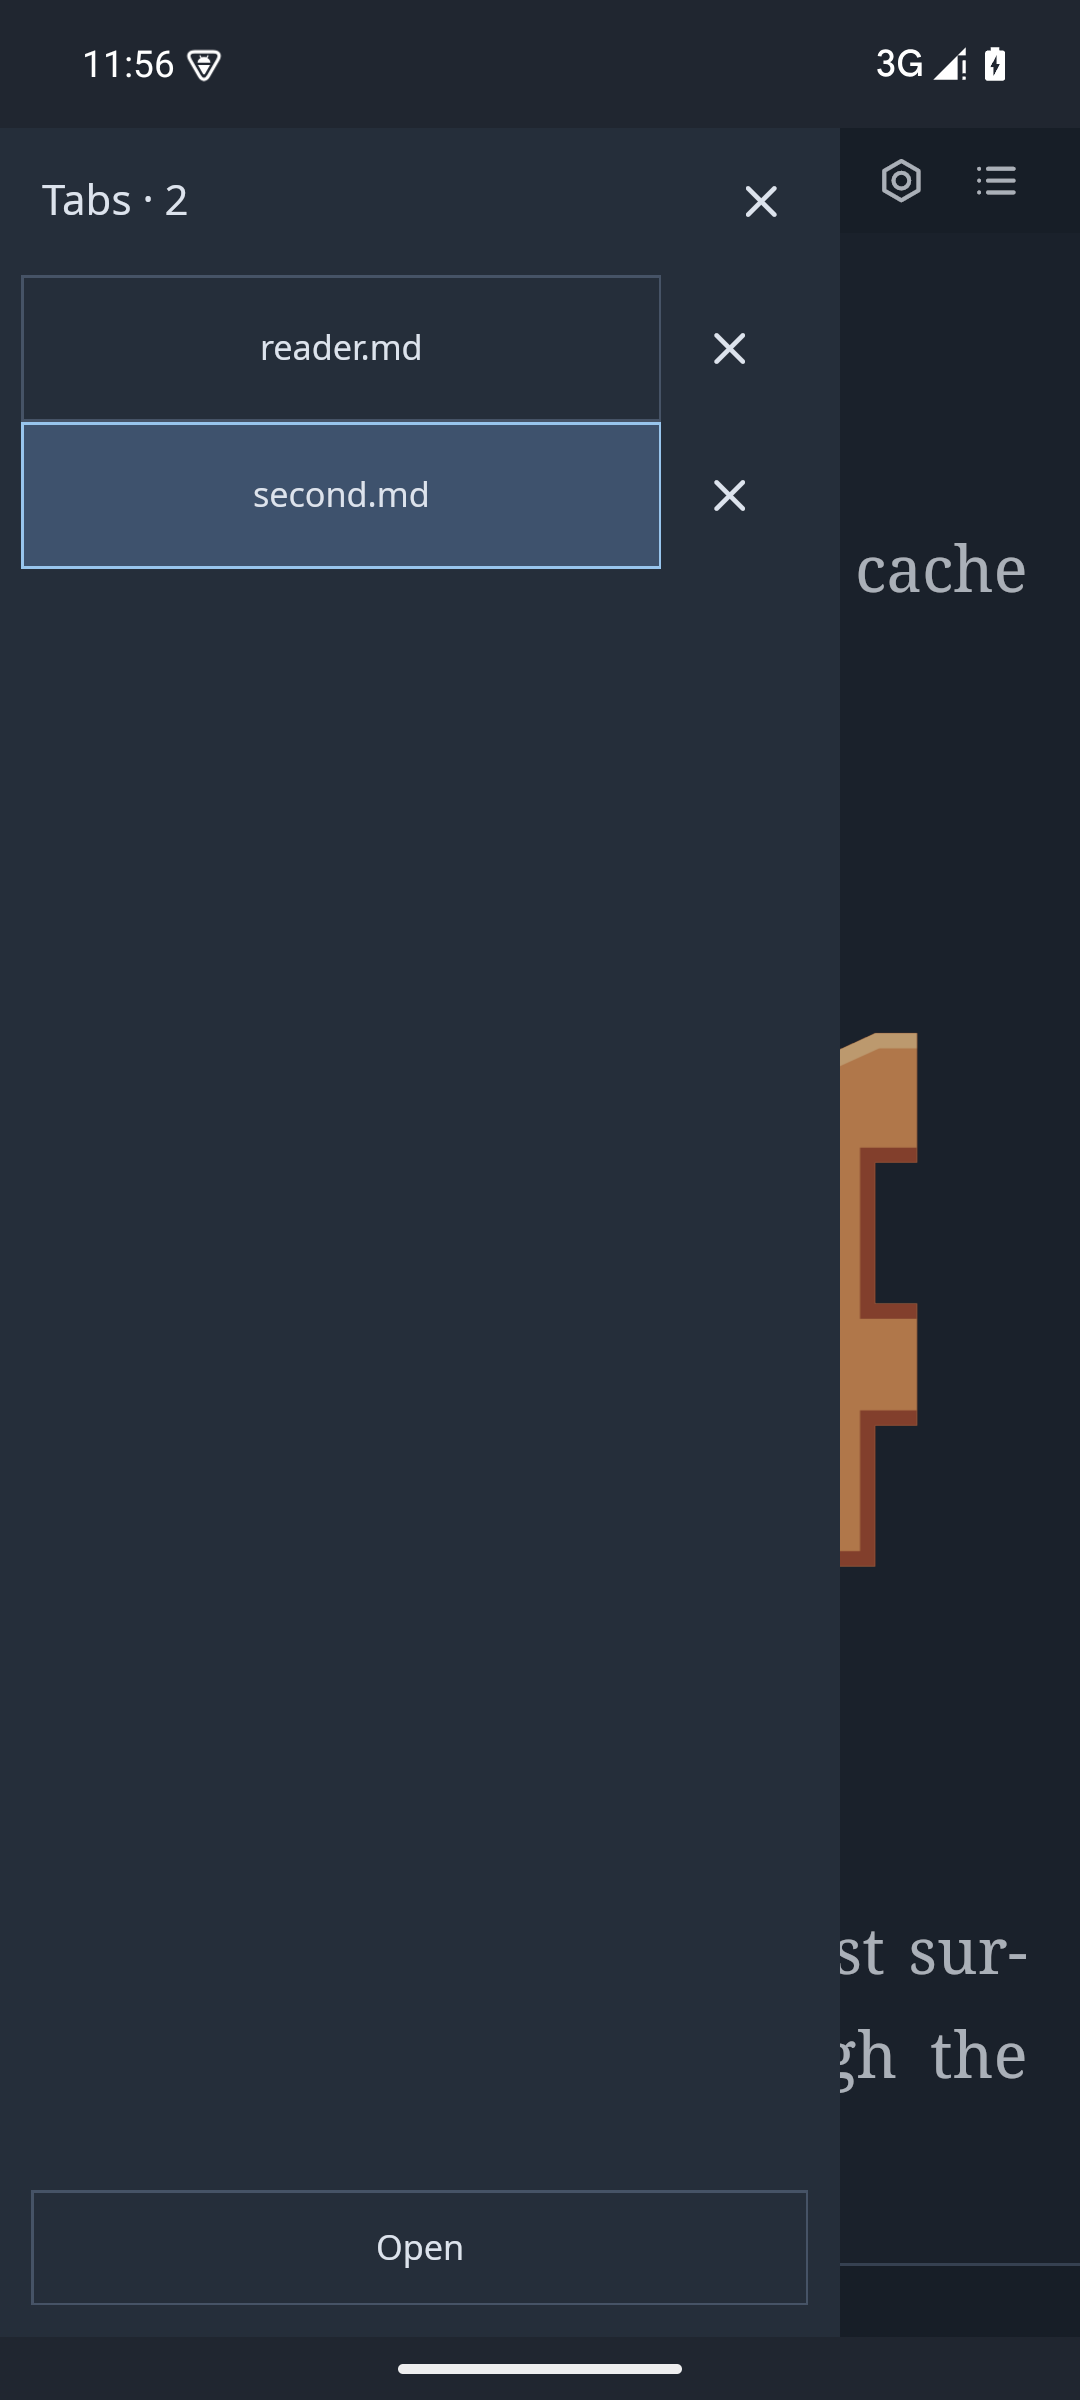
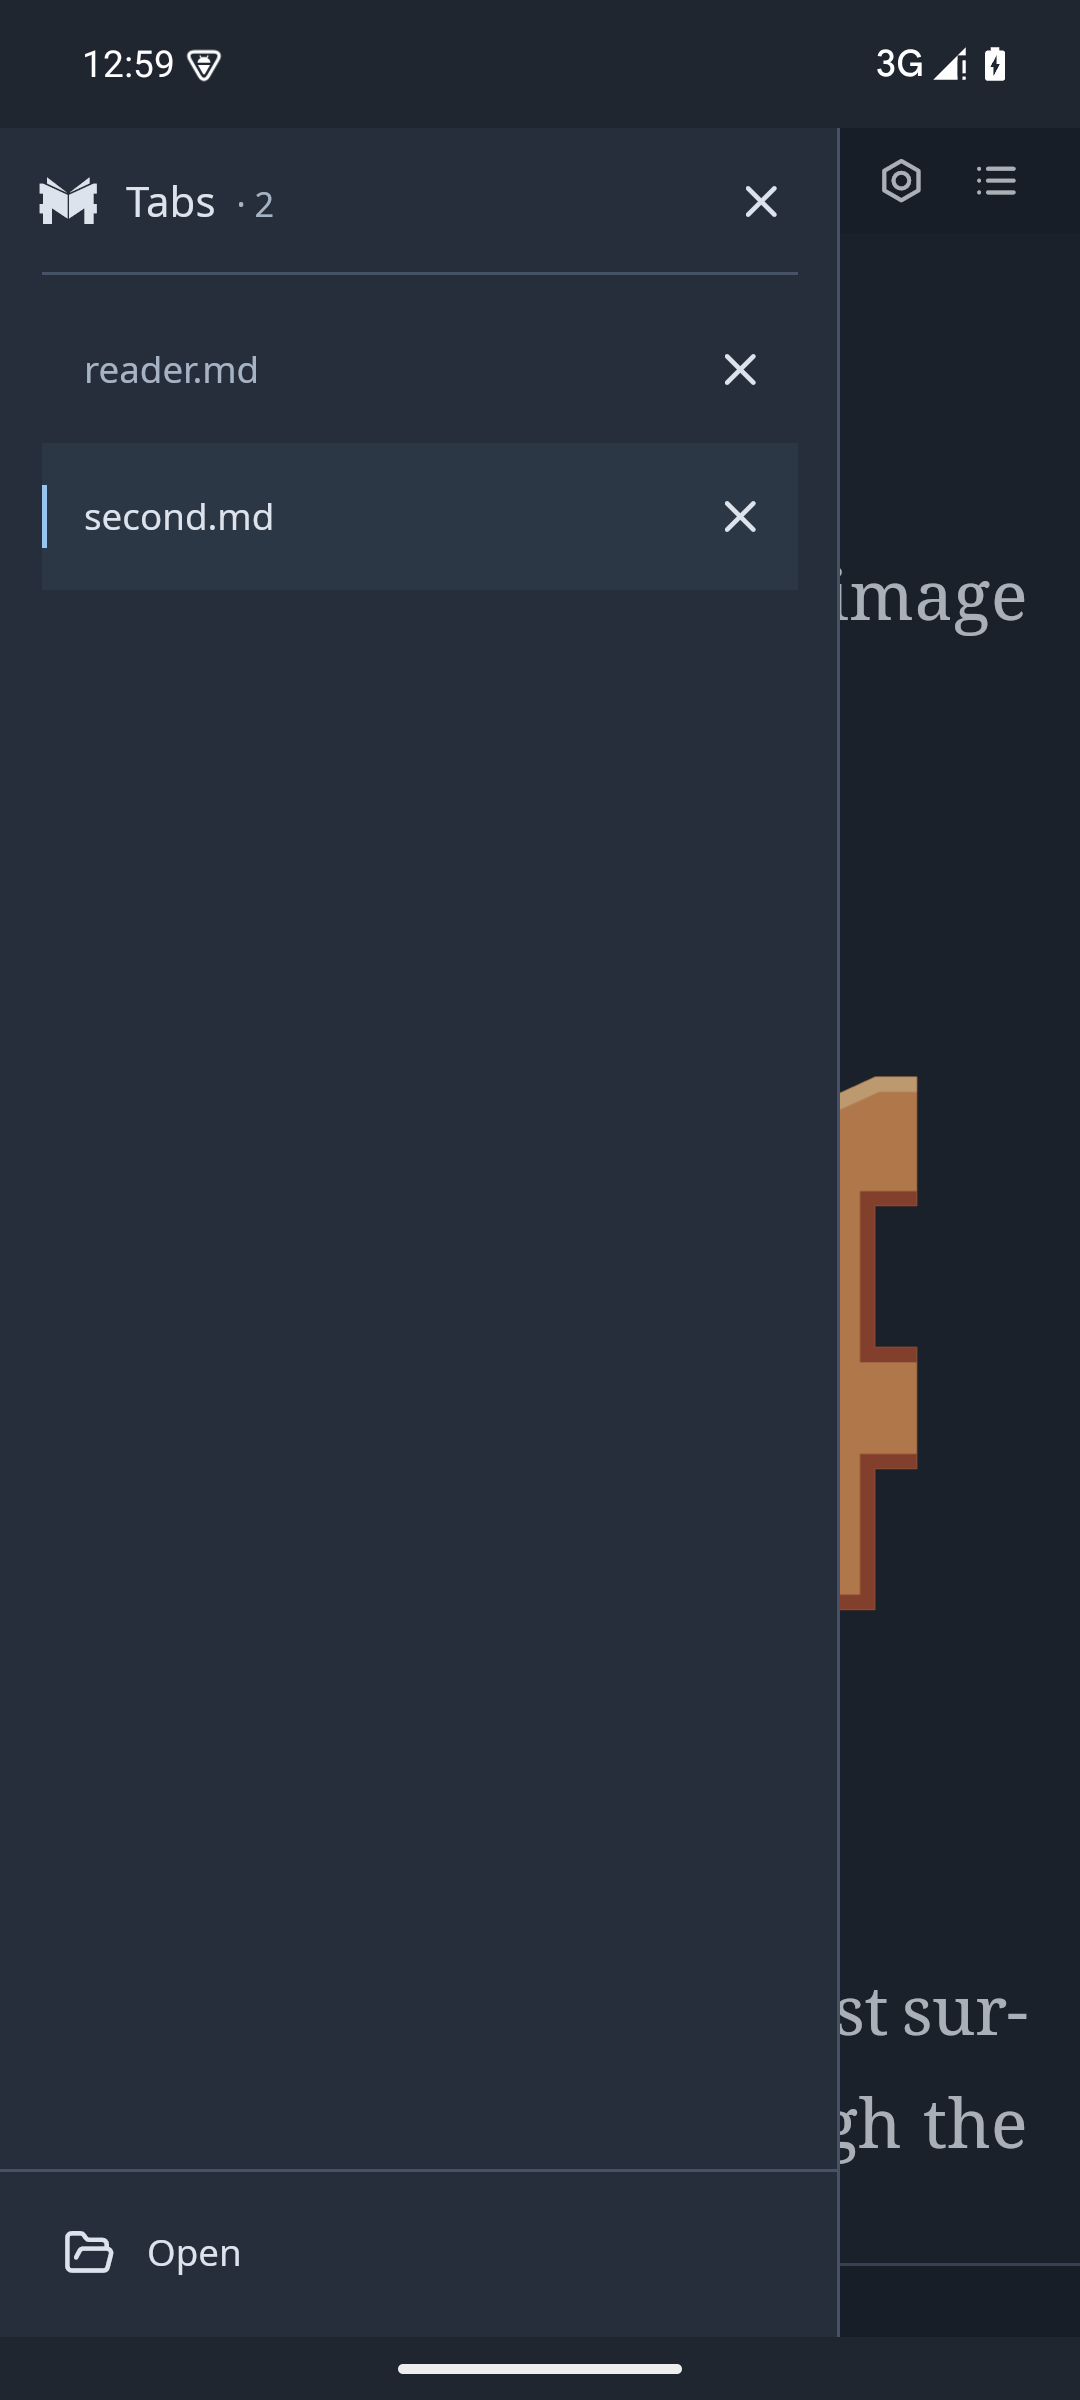
refactor: refine the phone tab drawer

diff --git a/src/app/chrome/tab_drawer.rs b/src/app/chrome/tab_drawer.rs
@@ -10,7 +10,7 @@ use crate::{
 	layout::{Draw, Paint, Rect, TextShaper},
 	state::{Command, InteractionState, ReaderTab},
 };
-use markview_core::style::{ColorField as C, Condition};
+use markview_core::style::{Color, ColorField as C, Condition};
 
 pub(in crate::app) fn rect(width: f32, height: f32) -> Rect {
 	Rect {
@@ -30,10 +30,10 @@ pub(in crate::app) fn list(
 	List::new(
 		panel,
 		Rect {
-			x: 8.,
-			y: 56.,
-			w: (panel.w - 28.).max(0.),
-			h: (height - 120.).max(0.),
+			x: 16.,
+			y: 64.,
+			w: (panel.w - 32.).max(0.),
+			h: (height - 128.).max(0.),
 		},
 		0.,
 		56.,
@@ -56,16 +56,13 @@ pub(super) fn toggle(lang: Lang) -> Button {
 	toggle.kind = ButtonKind::Quiet;
 	toggle
 }
-pub(super) fn buttons(
+fn row_buttons(
 	ui: &mut TextShaper,
 	tabs: &[ReaderTab],
 	active: usize,
-	scroll: f32,
-	size: (f32, f32),
+	list: List,
 	lang: Lang,
 ) -> Vec<Button> {
-	let (width, height) = size;
-	let list = list(width, height, tabs.len(), scroll);
 	let mut rows = Vec::new();
 	for index in list.visible() {
 		let row = list.row_rect(index);
@@ -74,7 +71,7 @@ pub(super) fn buttons(
 			.file_name()
 			.unwrap_or(path.as_os_str())
 			.to_string_lossy();
-		let name = ui.fit(&name, 13., (row.w - 68.).max(0.));
+		let name = ui.fit(&name, 14., (row.w - 72.).max(0.));
 		let mut select = button(
 			std::sync::Arc::<str>::from(name),
 			Command::SelectTab(index),
@@ -84,6 +81,7 @@ pub(super) fn buttons(
 			},
 		);
 		select.active = index == active;
+		select.kind = ButtonKind::Quiet;
 		rows.push(select);
 		let mut close = button(
 			lang.panel_close(),
@@ -99,12 +97,14 @@ pub(super) fn buttons(
 		close.kind = ButtonKind::Quiet;
 		rows.push(close);
 	}
-	let mut buttons = list.hit(rows);
+	rows
+}
+fn controls(panel: Rect, width: f32, lang: Lang) -> Vec<Button> {
 	let mut close = button(
 		lang.panel_close(),
 		Command::Tabs,
 		Rect {
-			x: list.panel.w - 52.,
+			x: panel.w - 52.,
 			y: 6.,
 			w: 44.,
 			h: 44.,
@@ -112,29 +112,77 @@ pub(super) fn buttons(
 	);
 	close.icon = Some(icons::CLOSE);
 	close.kind = ButtonKind::Quiet;
-	buttons.push(close);
-	buttons.push(button(
+	let mut open = button(
 		lang.toolbar_open(),
 		Command::Open,
 		Rect {
-			x: 12.,
-			y: height - 56.,
-			w: (list.panel.w - 24.).max(0.),
+			x: 16.,
+			y: panel.h - 54.,
+			w: (panel.w - 32.).max(0.),
 			h: 44.,
 		},
-	));
+	);
+	open.kind = ButtonKind::Quiet;
 	// The scrim dismisses the drawer without activating the document below.
-	buttons.push(button(
+	let scrim = button(
 		"",
 		Command::Tabs,
 		Rect {
-			x: list.panel.w,
+			x: panel.w,
 			y: 0.,
-			w: width - list.panel.w,
-			h: height,
+			w: width - panel.w,
+			h: panel.h,
 		},
-	));
+	);
+	vec![close, open, scrim]
+}
+pub(super) fn buttons(
+	ui: &mut TextShaper,
+	tabs: &[ReaderTab],
+	active: usize,
+	scroll: f32,
+	size: (f32, f32),
+	lang: Lang,
+) -> Vec<Button> {
+	components::appearance(ui);
+	let list = list(size.0, size.1, tabs.len(), scroll);
+	let mut buttons = list.hit(row_buttons(ui, tabs, active, list, lang));
+	buttons.extend(controls(list.panel, size.0, lang));
 	buttons
+}
+
+fn draw_entry(
+	ui: &mut TextShaper,
+	interaction: &InteractionState,
+	b: &Button,
+) -> Vec<Draw> {
+	let mut surface = b.clone();
+	surface.label = "".into();
+	surface.active = false;
+	let mut out = components::draw_button(ui, interaction, &surface, true);
+	let open = b.action == Command::Open;
+	if open {
+		out.push(Draw::Icon {
+			paths: icons::OPEN,
+			paint: Paint::Styled(Condition::Panel, C::Color),
+			x: b.rect.x + 8.,
+			y: b.rect.y + (b.rect.h - 20.) / 2.,
+			size: 20.,
+		});
+	}
+	let inset = if open { 40. } else { 16. };
+	let name = ui.fit(&b.label, 14., (b.rect.w - inset - 8.).max(0.));
+	out.extend(ui.label(
+		&name,
+		14.,
+		b.rect.x + inset,
+		b.rect.y + b.rect.h / 2. + 5.,
+		Paint::Styled(
+			Condition::Panel,
+			if b.active || open { C::Color } else { C::Muted },
+		),
+	));
+	out
 }
 pub(super) fn draw(
 	ui: &mut TextShaper,
@@ -159,36 +207,154 @@ pub(super) fn draw(
 			Paint::Scrim,
 		),
 		Draw::Rect(list.panel, Paint::Styled(Condition::Panel, C::Background)),
+		Draw::Icon {
+			paths: icons::APP,
+			paint: Paint::Styled(Condition::Panel, C::Color),
+			x: 12.,
+			y: 14.,
+			size: 28.,
+		},
 	];
+	for r in [
+		Rect {
+			x: list.panel.w - 1.,
+			w: 1.,
+			..list.panel
+		},
+		Rect {
+			x: 16.,
+			y: 55.,
+			w: list.panel.w - 32.,
+			h: 1.,
+		},
+		Rect {
+			y: height - 64.,
+			h: 1.,
+			..list.panel
+		},
+	] {
+		out.push(components::line(r, Condition::Panel, C::BorderColor));
+	}
+	let title = ui.fit(lang.toolbar_tabs(), 16., (list.panel.w - 132.).max(0.));
+	let title_width = ui.text_width(&title, 16.);
 	out.extend(ui.label(
-		&format!("{} · {}", lang.toolbar_tabs(), tabs.len()),
+		&title,
 		16.,
-		16.,
-		33.,
+		48.,
+		34.,
 		Paint::Styled(Condition::Panel, C::Color),
 	));
+	out.extend(ui.label(
+		&format!("· {}", tabs.len()),
+		13.,
+		48. + title_width + 8.,
+		34.,
+		Paint::Styled(Condition::Panel, C::Muted),
+	));
+	let background = ui.stylesheet.color(Condition::Panel, C::Background);
+	let accent = ui.stylesheet.color(Condition::Panel, C::Accent);
+	let selected =
+		Paint::Color(Color(u32::from_be_bytes(std::array::from_fn(|i| {
+			((background[i] + (accent[i] - background[i]) * 0.06) * 255.)
+				.round() as u8
+		}))));
 	let mut rows = Vec::new();
-	for b in buttons(ui, tabs, active, scroll, size, lang) {
-		if matches!(b.action, Command::SelectTab(_) | Command::CloseTab(_)) {
+	for b in row_buttons(ui, tabs, active, list, lang) {
+		if matches!(b.action, Command::SelectTab(_)) {
 			if b.active {
 				rows.push(Draw::Rect(
-					Rect { w: 3., ..b.rect },
+					Rect {
+						w: list.viewport.w,
+						..b.rect
+					},
+					selected,
+				));
+			}
+			rows.extend(draw_entry(ui, interaction, &b));
+			if b.active {
+				rows.push(Draw::Rect(
+					Rect {
+						y: b.rect.y + 16.,
+						w: 2.,
+						h: 24.,
+						..b.rect
+					},
 					Paint::Styled(Condition::Panel, C::Accent),
 				));
 			}
+		} else {
 			rows.extend(components::draw_button(ui, interaction, &b, true));
-		} else if b.rect.x < list.panel.w {
-			out.extend(components::draw_button(ui, interaction, &b, true));
 		}
 	}
 	out.push(list.clip(rows));
 	list.draw_bar(&mut out, ui, interaction);
+	for b in controls(list.panel, width, lang) {
+		if b.action == Command::Open {
+			out.extend(draw_entry(ui, interaction, &b));
+		} else if b.rect.x < list.panel.w {
+			out.extend(components::draw_button(ui, interaction, &b, true));
+		}
+	}
 	out
 }
 
 #[cfg(test)]
 mod tests {
 	use super::*;
+	#[test]
+	fn drawer_labels_follow_partial_scroll_without_recentering() {
+		let mut ui = crate::test_support::shaper();
+		let tabs: Vec<_> = (0..30)
+			.map(|i| ReaderTab::new(format!("{i}-document.md").into()))
+			.collect();
+		let first_label = |draws: Vec<Draw>| {
+			draws
+				.into_iter()
+				.find_map(|draw| {
+					let Draw::Clipped { draws, .. } = draw else {
+						return None;
+					};
+					draws.into_iter().find_map(|draw| match draw {
+						Draw::Glyph(glyph) => Some((glyph.x, glyph.y)),
+						_ => None,
+					})
+				})
+				.unwrap()
+		};
+		for dark in [false, true] {
+			ui.set_stylesheet(markview_core::style::Stylesheet::bundled(dark));
+			let resting = first_label(draw(
+				&mut ui,
+				&tabs,
+				0,
+				0.,
+				&InteractionState::default(),
+				(320., 760.),
+				Lang::En,
+			));
+			let scrolled = first_label(draw(
+				&mut ui,
+				&tabs,
+				0,
+				17.,
+				&InteractionState::default(),
+				(320., 760.),
+				Lang::En,
+			));
+			assert_eq!(resting.0, 32.);
+			assert_eq!(scrolled.0, resting.0);
+			assert_eq!(resting.1 - scrolled.1, 17.);
+			let buttons =
+				buttons(&mut ui, &tabs, 0, 17., (320., 760.), Lang::En);
+			let select = buttons
+				.iter()
+				.find(|b| b.action == Command::SelectTab(0))
+				.unwrap();
+			assert!(select.rect.contains(scrolled.0, scrolled.1));
+			assert_eq!(select.rect.y, 64.);
+		}
+	}
+
 	#[test]
 	fn drawer_rows_are_clipped_and_touch_targets_do_not_overlap() {
 		let mut ui = crate::test_support::shaper();

diff --git a/CHANGELOG.md b/CHANGELOG.md
@@ -36,6 +36,8 @@ at the same level, without `[brackets]`.
 
 ### Changed
 
+- Refine the phone tab drawer with left-aligned filenames, subtle selection markers, quiet open controls and a theme-colored Markview icon.
+
 - Use `sw600dp` to keep phones in portrait with a left tab drawer and hide their tab-style setting; tablets retain desktop tabs and rotation.
 
 - Move tab style from MVSS to the `tab-style` user setting, defaulting to `underline` (formerly `classic`).
